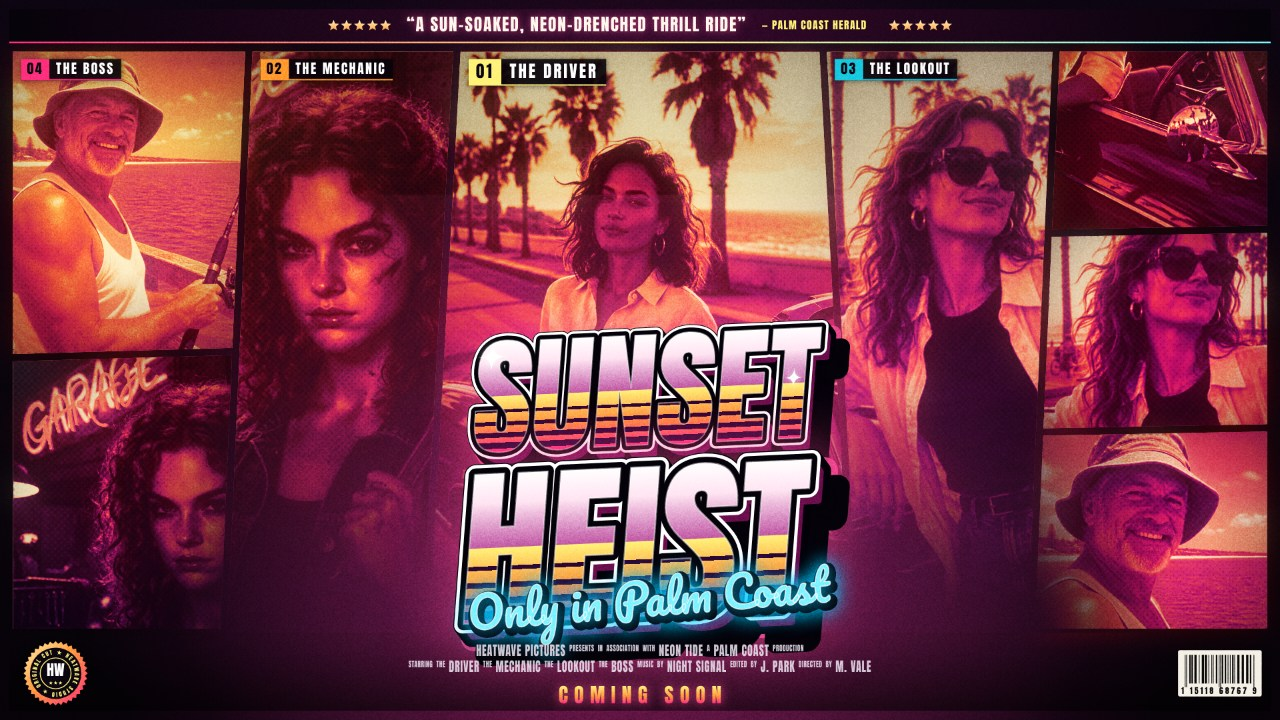
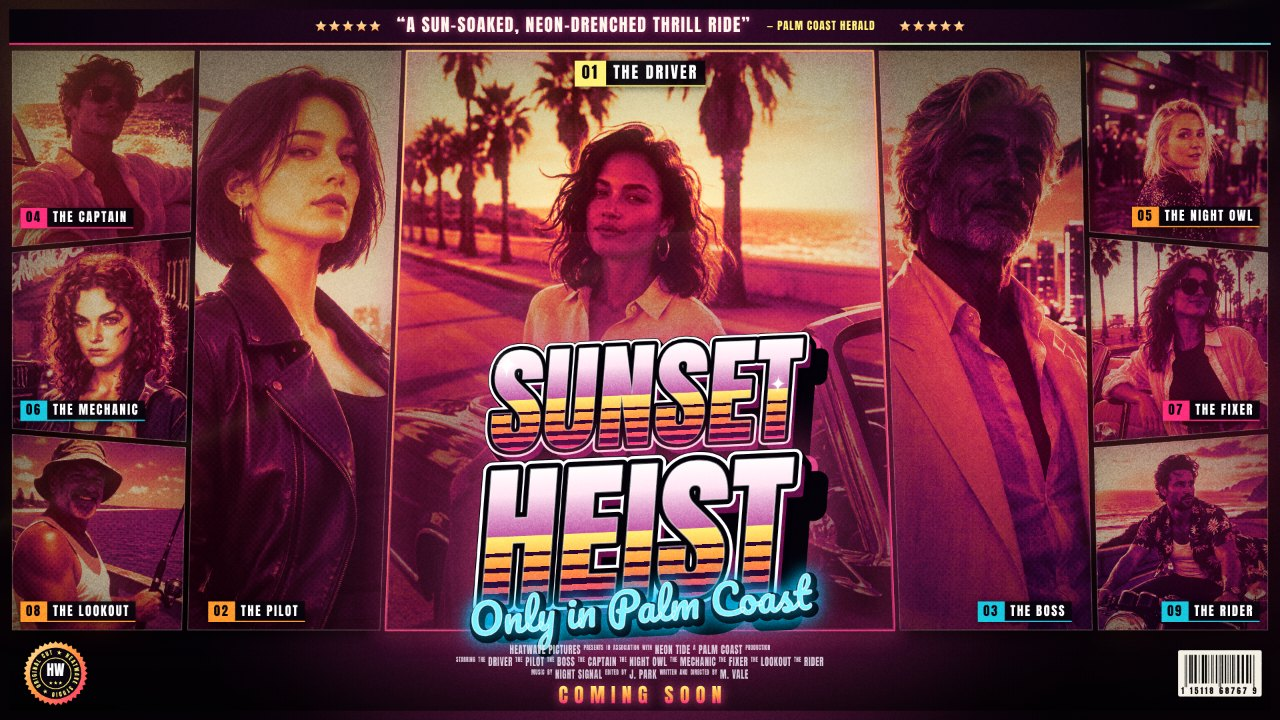
Cast 9 polish: tags avoid the title, tagline under the title foot, sidebar Make hero button; new screenshots with nine people

diff --git a/main.ts b/main.ts
@@ -1,10 +1,12 @@
 // Heatwave Cover Studio, a gta6-cover-art-01 entry (Node 22, standard library only). The app is app/: plain static
 // files a desktop browser loads offline (index.html, ES modules under app/src/, two OFL fonts under app/fonts/,
-// no library and no network request). It turns the user's own photos and a caption into movie key-art covers: a
-// tilted cast grid of up to 8 panels (one photo per person, dealt automatically), role tags, a review banner with
-// stars, a stacked chrome-and-sunset-striped title with a neon script tagline, a billing block with release line,
-// seal and barcode, gradient-map sunset/neon grades, halftone, glow and grain; and exports 1080x1080, 1080x1350
-// or 1920x1080 PNGs. This program hands it in: it copies app/ and screenshots/
+// no library and no network request). It turns the user's own photos and a caption into movie key-art covers: the
+// default Cast 9 poster puts the first photo big in the centre as the hero (any panel can be promoted with "Make
+// hero"), two co-stars beside it and six close-ups around them, one photo per person, with role tags, a review
+// banner with stars, a chrome-and-sunset-striped title over the hero's lower third with a neon script tagline, a
+// billing block with release line, seal and barcode; every photo is auto-levelled then gradient-mapped to one
+// sunset/neon grade, with light leaks, halftone, glow, vignette and grain; and it exports 1080x1080, 1080x1350 or
+// 1920x1080 PNGs. This program hands it in: it copies app/ and screenshots/
 // from beside this file to /output and writes /output/dossier.json with the vendored make.fun library. It reads no
 // clock, no randomness and no network, so two runs write the same bytes.
 //

diff --git a/app/src/keyart.js b/app/src/keyart.js
@@ -296,9 +296,11 @@ function edgeYAt(p, q, x) {
  * Role tags, one style everywhere: a dark plate with a numbered accent chip, the role in spaced condensed caps
  * and an accent underline. Each tag sits in its panel's lower outer corner (left half of the cover: bottom-left;
  * right half: bottom-right), over the shoulders and away from the faces and the title; the hero's tag, a size
- * larger, sits at the top centre of the hero. Every tag follows its panel's tilted edge and is clipped to it.
+ * larger, sits at the top centre of the hero. A tag whose lower corner would fall under the title box (`titleBox`,
+ * the plan's {cx, cy, w, h}) moves to the panel's upper outer corner instead. Every tag follows its panel's tilted
+ * edge and is clipped to it.
  */
-export function drawRoleTags(ctx, geometry, tags, grade, unit, coverWidth) {
+export function drawRoleTags(ctx, geometry, tags, grade, unit, coverWidth, titleBox) {
   geometry.panels.forEach((panel, i) => {
     const label = (tags[i] ?? '').trim().toUpperCase();
     if (!label) return;
@@ -332,6 +334,10 @@ export function drawRoleTags(ctx, geometry, tags, grade, unit, coverWidth) {
         : Math.min(tr[0], br[0]) - inset - m.total;
       x = sideIn;
       y = Math.min(edgeYAt(bl, br, x), edgeYAt(bl, br, x + m.total)) - inset - tagH;
+      const underTitle = titleBox
+        && x < titleBox.cx + titleBox.w / 2 && x + m.total > titleBox.cx - titleBox.w / 2
+        && y + tagH > titleBox.cy - titleBox.h / 2 && y < titleBox.cy + titleBox.h / 2;
+      if (underTitle) y = Math.max(edgeYAt(tl, tr, x), edgeYAt(tl, tr, x + m.total)) + inset;
     }
     tracePolygon(ctx, panel.polygon);
     ctx.clip();

diff --git a/app/src/render.js b/app/src/render.js
@@ -42,9 +42,11 @@ function placeTitleOverHero(plan, geometry) {
   const { area, unit } = plan;
   const zone = geometry.titleZone;
   const tw = area.w * zone.w;
-  const th = area.h * zone.h;
-  // Leave room under the title's foot for the script tagline that crosses it.
-  const bottom = area.y + area.h - (plan.billing ? 34 : 64) * unit;
+  // Leave room under the title's foot for the script tagline that crosses it; the zone's top edge stays put, so
+  // the title never climbs into the panels above the zone.
+  const reserve = (plan.billing ? 34 : 64) * unit;
+  const th = area.h * zone.h - reserve;
+  const bottom = area.y + area.h - reserve;
   plan.title = { cx: area.x + area.w * zone.cx, cy: bottom - th / 2, w: tw, h: th, anchor: 'bottom', lines: zone.lines };
   plan.titleOverHero = true;
 }
@@ -182,7 +184,7 @@ export function renderCover(ctx, scene, w, h) {
   addBloomGlow(ctx, w, h, unit, scene.glow);
   applyPosterVignette(ctx, w, h, 0.5);
   drawTitleHaze(ctx, w, plan, grade);
-  drawRoleTags(ctx, geometry, resolveRoleTags(scene), grade, unit, w);
+  drawRoleTags(ctx, geometry, resolveRoleTags(scene), grade, unit, w, plan.title);
   if (plan.banner) drawReviewBanner(ctx, plan.banner, scene, grade, unit);
 
   const title = drawStripedTitle(ctx, scene.caption, plan.title, grade, unit);

diff --git a/app/src/editor.js b/app/src/editor.js
@@ -139,6 +139,7 @@ export function promotePanelToHero(panelIndex) {
   if (panelIndex === hero || !scene.panels[panelIndex] || !scene.panels[hero]) return;
   const chosen = scene.panels[panelIndex];
   const lead = scene.panels[hero];
+  const name = scene.photos[chosen.photo]?.name;
   const swap = [
     [hero, chosen.photo, chosen.tag, chosen.flip],
     [panelIndex, lead.photo, lead.tag, lead.flip],
@@ -149,7 +150,6 @@ export function promotePanelToHero(panelIndex) {
     scene.panels[index].tag = tag;
   }
   scene.selected = hero;
-  const name = scene.photos[chosen.photo]?.name;
   setStatus(name ? `${name} is now the hero.` : 'Hero swapped.');
   refreshEditor();
 }
@@ -280,7 +280,7 @@ function placeHeroChip() {
   const scale = preview.clientWidth / preview.width;
   chip.hidden = false;
   chip.style.left = `${(panel.box.x + panel.box.w / 2) * scale}px`;
-  chip.style.top = `${(panel.box.y + panel.box.h * 0.5) * scale}px`;
+  chip.style.top = `${(panel.box.y + panel.box.h * 0.64) * scale}px`;
 }
 
 /* ---------- export ---------- */

diff --git a/app/src/layouts.js b/app/src/layouts.js
@@ -43,7 +43,7 @@ function buildCastNineWide() {
     hero: 0,
     cells,
     kinds: ['hero', 'costar', 'costar', 'small', 'small', 'small', 'small', 'small', 'small'],
-    titleZone: { cx: 0.5, w: 0.5, h: 0.44, lines: 'stack' },
+    titleZone: { cx: 0.5, w: 0.5, h: 0.47, lines: 'stack' },
   };
 }
 

diff --git a/README.md b/README.md
@@ -4,7 +4,7 @@
 [![rank](https://make.fun/badge/gta6-cover-art-01/ducduymmhm/gta6-cover-maker/rank.svg)](https://make.fun/bounty/gta6-cover-art-01/leaderboard?utm_source=github&utm_medium=readme&utm_campaign=gta6-cover-art-01)
 [![reward](https://make.fun/badge/gta6-cover-art-01/ducduymmhm/gta6-cover-maker/reward.svg)](https://make.fun/bounty/gta6-cover-art-01?utm_source=github&utm_medium=readme&utm_campaign=gta6-cover-art-01)
 
-**Heatwave Cover Studio** is an offline web app that turns your own photos and a caption into open-world crime-saga movie key art: a cast grid of tilted panels (3 to 8, with one big hero panel; the default Ensemble layout has 8) where every panel can show a different person, numbered role tags (THE DRIVER, THE MECHANIC, ...), a review banner with a quote and stars, a stacked title with chrome-over-sunset striped letters, extrusion, hard drop shadow and glow, a neon script tagline, and a billing block with condensed credits, a release line, a seal and a barcode strip, all editable or toggleable. Colour grades (Sunset, Neon Night, Miami Dawn, Golden Hour, Mono Noir) add light leaks, halftone dots, bloom and film grain. Load several photos at once and they are dealt one per panel (repeating, as different crops, only when there are more panels than photos); click a panel to swap its photo or edit its tag, drag to pan and scroll to zoom, then export a full-resolution PNG at 1920×1080, 1080×1350 or 1080×1080. Photos never leave your machine. The lettering uses the OFL fonts Anton and Pacifico (`app/fonts/OFL.txt`); the seal, barcode and title treatment are the app's own drawing: no game logos, artwork or fonts.
+**Heatwave Cover Studio** is an offline web app that turns your own photos and a caption into open-world crime-saga movie key art: a cast grid of tilted panels (3 to 9). The default **Cast 9** layout puts the first photo big in the centre as the hero, flanked by two co-stars and six close-ups (in landscape: stacked columns at both edges; in portrait and square: a row across the top and a co-star and close-up each side), with the title over the hero's lower third so no face is ever covered. Any panel can be promoted to the centre with **★ Make hero**. Every panel can show a different person, numbered role tags (THE DRIVER, THE MECHANIC, ...), a review banner with a quote and stars, a stacked title with chrome-over-sunset striped letters, extrusion, hard drop shadow and glow, a neon script tagline, and a billing block with condensed credits, a release line, a seal and a barcode strip, all editable or toggleable. Each photo is auto-levelled on its own before a shared gradient-map grade (Sunset, Neon Night, Miami Dawn, Golden Hour, Mono Noir), so very different photos read as one poster; light leaks, a hero glow, drop shadows, halftone dots, bloom, vignette and film grain finish it. Load several photos at once and they are dealt one per panel in order, the first to the hero (repeating, as different crops, only when there are more panels than photos); click a panel to swap its photo or edit its tag, drag to pan and scroll to zoom, then export a full-resolution PNG at 1920×1080, 1080×1350 or 1080×1080. Photos never leave your machine. The lettering uses the OFL fonts Anton and Pacifico (`app/fonts/OFL.txt`); the seal, barcode and title treatment are the app's own drawing: no game logos, artwork or fonts.
 
 ## Run it
 
